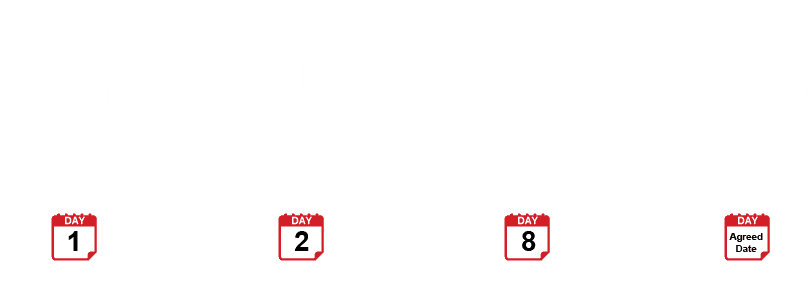
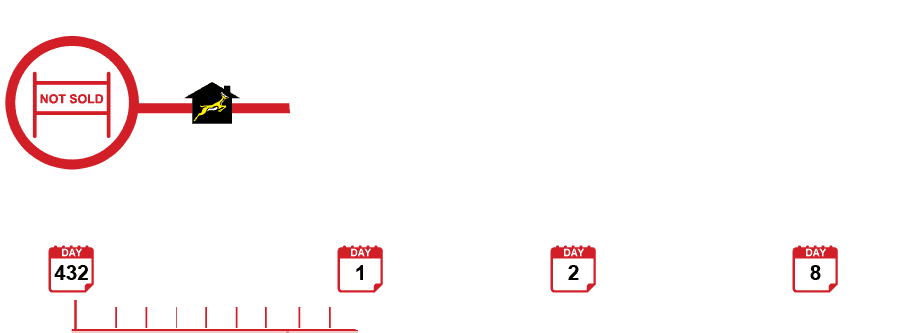
Feedback 3

diff --git a/sprevamp/assets/css/materialize.css b/sprevamp/assets/css/materialize.css
@@ -4017,6 +4017,16 @@ small {
   font-weight: 500;
 }
 
+/* line 103, ../sass/components/_typography.scss */
+.text-underline {
+  text-decoration: underline;
+}
+
+/* line 107, ../sass/components/_typography.scss */
+.text-italic {
+  font-style: italic;
+}
+
 /* line 3, ../sass/components/_cards.scss */
 .card-panel {
   transition: box-shadow .25s;

diff --git a/sprevamp/assets/sass/components/_typography.scss b/sprevamp/assets/sass/components/_typography.scss
@@ -99,3 +99,11 @@ small { font-size: 75%; }
   font-size: 1.8rem;
   font-weight: 500;
 }
+
+.text-underline {
+  text-decoration: underline;
+}
+
+.text-italic {
+  font-style: italic;
+}

diff --git a/sprevamp/index.php b/sprevamp/index.php
@@ -87,28 +87,14 @@
             </div>
         </section>
 
-        <section class="home-how-it-works no-padding">
-            <div class="sp-secondary sp-primary-text text-lighten-5">
-                <div class="container center-align">
-                    <h2 class="big">A REAL LIFE EXAMPLE OF HOW IT WORKS FROM OUR THOUSANDS OF SUCCESS STORIES</h2>
-                </div>
-            </div>
-            <div class="sp-primary sp-secondary-text lighten-5">
-                <div class="container center-align">
-                    <p class="big strong margin-top-0 margin-bottom-0">Mrs. Helen contacted us after being frustrated & stuck on the market for 432 days with two different estate agents</p>
-                </div>
-            </div>
-            <div class="sp-primary sp-secondary-text lighten-4">
-                <div class="container center-align">
-                    <p class="big strong margin-top-0 margin-bottom-0">We sold Mrs. Helen's house within 8 days & most importantly achieved their asking price. Here's how</p>
-                </div>
-            </div>
-            <div class="sp-secondary sp-primary-text text-lighten-5">
-                <div class="container center-align">
-                    <p class="big">West View, Newcastle - Sold in 8 days</p>
-                    <img class="responsive-img" src="assets/images/how-works.png" width="808" height="301"/>
-                    <h4 class="sp-primary-text big">1800 vendors and counting with a sale agreed in less than 10 days</h4>
-                </div>
+        <section class="home-how-it-works no-padding sp-secondary sp-primary-text text-lighten-5">
+            <div class="container center-align">
+                <h2 class="big margin-bottom-30">A REAL LIFE EXAMPLE OF HOW IT WORKS FROM OUR THOUSANDS OF SUCCESS STORIES</h2>
+                <p class="big strong margin-top-0 margin-bottom-0">Mrs. Helen contacted us after being frustrated & stuck on the market for <span class="text-underline">432 days</span> with two different estate agents</p>
+                <p class="big strong margin-top-0 margin-bottom-40">We sold Mrs. Helen's house within <span class="text-underline">8 days</span> & most importantly achieved their <span class="text-underline">asking price</span>. Here's how</p>
+                <p class="big">West View, Newcastle - Sold in 8 days</p>
+                <img class="responsive-img" src="assets/images/how-works.png" width="902" height="333"/>
+                <h4 class="sp-primary-text big">1800 vendors and counting with a sale agreed in less than 10 days</h4>
             </div>
         </section>
 
